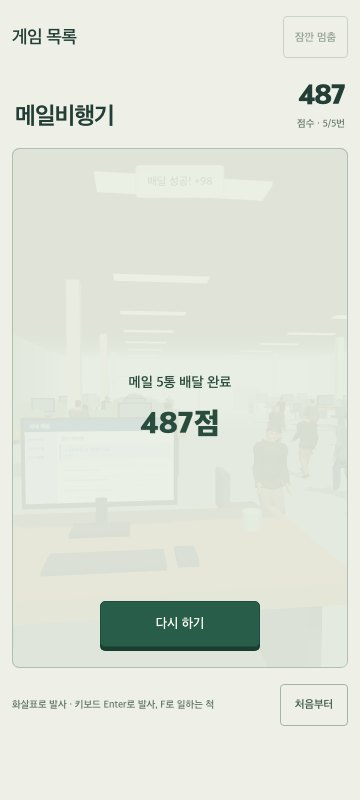
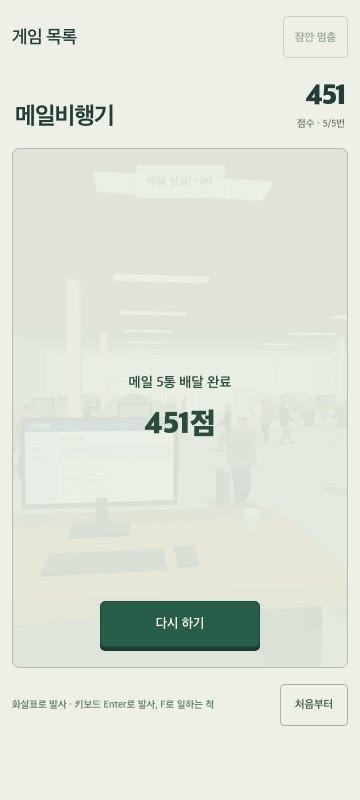
fix: keep mail plane timers responsive at low frame rates

Changed region(s): [[0.3972, 0.5, 0.6111, 0.5625], [0.825, 0.0938, 0.9778, 0.1562]]

diff --git a/frontend/e2e/mail-plane-round.spec.ts b/frontend/e2e/mail-plane-round.spec.ts
@@ -7,6 +7,7 @@ test('mail plane finishes five deliveries and returns home', async ({page, isMob
   const stage = page.getByRole('region', {name: '메일비행기 게임'});
   const target = page.getByRole('button', {name: '표시된 동료에게 메일 날리기'});
 
+  let previousScore = 0;
   for (let shot = 1; shot <= 5; shot++) {
     await expect(target).toBeVisible({timeout: 20_000});
     if (isMobile) {
@@ -16,8 +17,11 @@ test('mail plane finishes five deliveries and returns home', async ({page, isMob
     } else {
       await stage.press('Enter');
     }
-    await expect(page.getByText(`점수 · ${shot}/5번`)).toBeVisible();
-    await expect(page.getByText(/배달 성공/)).toBeVisible({timeout: 20_000});
+    const shotCount = page.getByText(`점수 · ${shot}/5번`, {exact: true});
+    await expect(shotCount).toBeVisible();
+    const score = shotCount.locator('..').locator('strong');
+    await expect.poll(async () => Number(await score.innerText()), {timeout: 20_000}).toBeGreaterThan(previousScore);
+    previousScore = Number(await score.innerText());
   }
 
   await expect(page.getByText('메일 5통 배달 완료')).toBeVisible();
@@ -42,10 +46,26 @@ test('mail plane warns before getting caught and can restart', async ({page, isM
   const stage = page.getByRole('region', {name: '메일비행기 게임'});
   const target = page.getByRole('button', {name: '표시된 동료에게 메일 날리기'});
   await expect(target).toBeVisible({timeout: 20_000});
-  const work = page.getByRole('button', {name: '일하는 척', exact: true});
-  await expect(work).toBeVisible({timeout: 60_000});
-  if (isMobile) await work.tap();
-  else await stage.press('f');
+  // Respond in the frame that reveals the warning. Driver round trips can
+  // exceed the brief reaction window on a shared software-rendered runner.
+  await stage.evaluate((element, mobile) => new Promise<void>((resolve, reject) => {
+    const observer = new MutationObserver(tryWork);
+    const deadline = setTimeout(() => {
+      observer.disconnect();
+      reject(new Error('The warning did not offer an option to work'));
+    }, 60_000);
+    function tryWork() {
+      const work = [...element.querySelectorAll('button')].find(button => button.textContent?.trim() === '일하는 척');
+      if (!work || work.disabled) return;
+      observer.disconnect();
+      clearTimeout(deadline);
+      if (mobile) work.click();
+      else element.dispatchEvent(new KeyboardEvent('keydown', {key: 'f', bubbles: true}));
+      resolve();
+    }
+    observer.observe(element, {childList: true, subtree: true});
+    tryWork();
+  }), isMobile);
   await expect(page.getByText(/일하는 척하는 중/)).toBeVisible();
   await expect(target).toBeHidden();
   await expect(target).toBeVisible({timeout: 60_000});

diff --git a/frontend/components/PaperPlanePrototype.tsx b/frontend/components/PaperPlanePrototype.tsx
@@ -548,11 +548,14 @@ export default function PaperPlanePrototype() {
     const observer=new ResizeObserver(resize);observer.observe(mount);resize();
     prepareAssets();
     renderer.setAnimationLoop((now:number)=>{
-      const dt=last?Math.min((now-last)/1000,.034):0;last=now;
+      const elapsed = last ? (now - last) / 1000 : 0;
+      const movementStep = Math.min(elapsed, .034);
+      last = now;
       if(!paused) {
-        time+=dt;
+        // Keep deadlines responsive on slow GPUs while bounding updates after a stall.
+        time += Math.min(elapsed, .25);
         if (state.phase === 'result' && time - impactAt >= .82) foldMail();
-        targets.forEach((target, index) => updateCoworker(target, index, dt));
+        targets.forEach((target, index) => updateCoworker(target, index, movementStep));
         if (state.phase === 'ready') {
           if (targetIndex === -1 || !inView(projectHead(targetIndex).project(camera))) {
             const replacement = findTarget();
